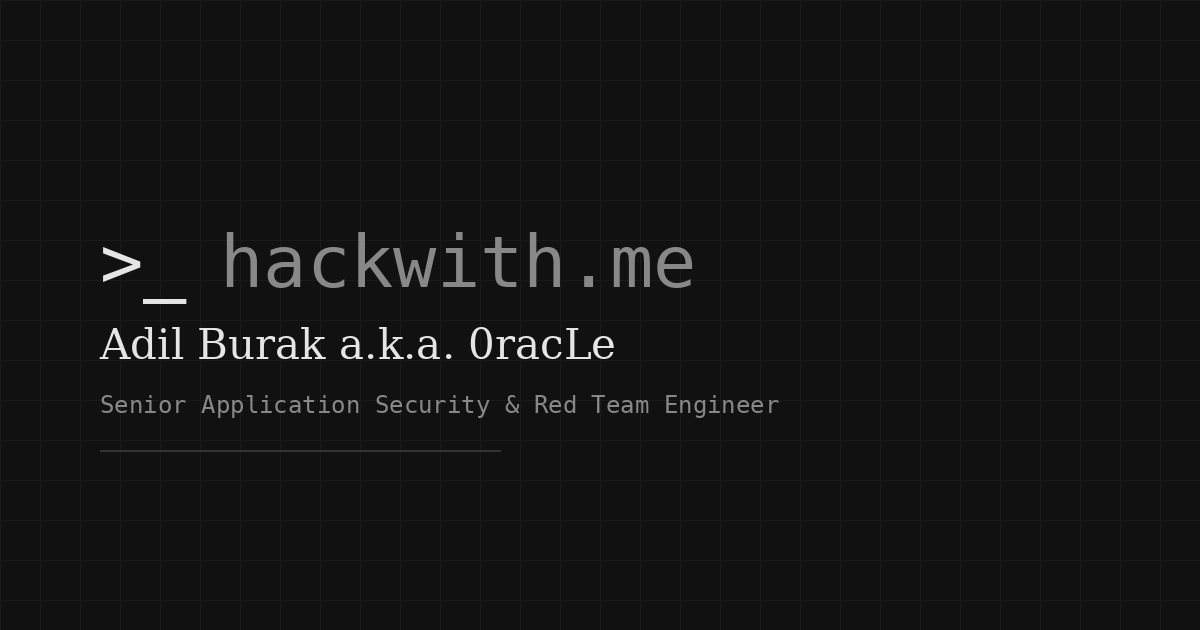
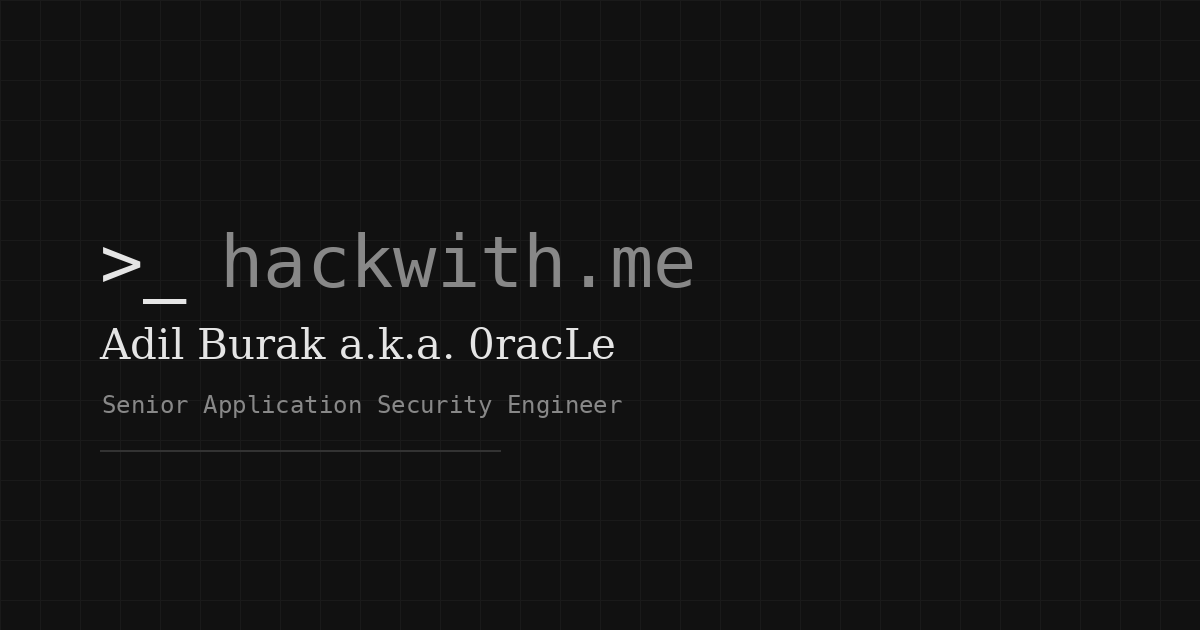
content: align site with current CV and LinkedIn (#12)
* content: align site with current CV and LinkedIn

* content: update page title and meta (index.html)

* content: update og-image subtitle

Changed region(s): [[0.0925, 0.6333, 0.6475, 0.6635]]

diff --git a/src/constants.ts b/src/constants.ts
@@ -14,13 +14,13 @@ export interface Certification {
 }
 
 export const AUTHOR_PROFILE = {
-  role: 'Senior Application Security & Red Team Engineer',
+  role: 'Senior Application Security Engineer',
   location: 'Istanbul, Turkey · Open to Europe / UK / Remote',
   availability: {
     statement: 'Open to Europe / UK / Remote',
     location: 'Istanbul, Turkey',
   },
-  bio: 'OSCP+ certified Application Security & Red Team Engineer with 8+ years across banking, telecom, aviation, insurance, and e-commerce. Bugcrowd Top 100 (2018) with 400+ reports submitted, 150+ validated. Published CVE (CVE-2026-31974). Hands-on across penetration testing, API security, threat modeling, secure SDLC, DevSecOps automation, and AI/LLM security.',
+  bio: 'Application security engineer with 10+ years in offensive and application security across banking, telecom, aviation, insurance and e-commerce. Web, API and mobile security testing, threat modeling and CI/CD security. Bugcrowd Top 100 (2018), 150+ validated vulnerabilities, credited for CVE-2026-31974 (OpenProject). OSCP+, eWPTx, eMAPT, CASP.',
   socials: {
     linkedin: 'https://www.linkedin.com/in/adilburaksen/',
     github: 'https://github.com/adilburaksen',
@@ -29,63 +29,77 @@ export const AUTHOR_PROFILE = {
   },
   experience: [
     {
+      company: 'Self-employed',
+      role: 'Independent Security Researcher (Bug Bounty)',
+      period: '2018 – Present',
+      highlight:
+        'Bugcrowd Top 100 (2018). 400+ reports and 150+ validated vulnerabilities on Bugcrowd, Synack Red Team, YesWeHack, Intigriti and Immunefi. Credited for CVE-2026-31974 (OpenProject). Broken Function Level Authorization at Indeed reclassified from Informational to P1 after re-triage ($10,000 bounty).',
+    },
+    {
       company: 'Abu Dhabi Commercial Bank (ADCB)',
-      role: 'Senior AppSec / Red Team Engineer',
+      role: 'Senior Application Security / Red Team Engineer (Contract)',
       period: '2025 – 2026',
       highlight:
-        'Led STRIDE threat modeling across 14-microservice architecture; produced 52-finding risk register fed into engineering backlogs. Performed CI/CD pipeline assessments and mobile MASVS assessments (140 test cases, 25 findings).',
+        'Led STRIDE threat modeling for a 14-microservice CIAM platform; 52-finding risk register (7 Critical, 16 High) with a remediation roadmap. Reviewed CI/CD pipeline security for a mobile banking backend. Tested the Android banking app against 140 MASVS test cases (25 findings, 6 Critical).',
     },
     {
       company: 'Kafein Technology Solutions',
-      role: 'AppSec Senior Consultant',
+      role: 'Application Security Senior Consultant',
       period: '2024 – 2025',
       highlight:
-        'Security assessments and code reviews across Python/Go/Java/TypeScript stacks. Deployed and tuned SAST/SCA/DAST for 10+ client teams. Trained 100+ developers on OWASP API Top 10.',
+        'Security assessments and secure code reviews for Python, Go, Java and TypeScript products. Set up SAST, SCA, DAST and secrets scanning for 10+ client teams. Triaged bug bounty and VDP reports. Trained 100+ developers on the OWASP API Security Top 10.',
     },
     {
-      company: 'Future Technology Systems (Kuwait)',
-      role: 'Penetration Tester',
+      company: 'Future Technology Systems Co. (FutureTEC), Kuwait',
+      role: 'Penetration Tester & Application Security Senior Engineer',
       period: '2023 – 2024',
       highlight:
-        '15+ full-stack pentests for enterprise and financial sector clients; 200+ critical findings; 90% remediation within SLA. Advised three banks on zero-trust network redesign.',
+        '15+ penetration tests covering web, API, internal infrastructure and network. 200+ findings including SQL injection, authentication and access control issues; 90% fixed within SLA. Advised three banks on zero-trust network redesign.',
     },
     {
       company: 'Barikat Cybersecurity',
-      role: 'Red Team Senior Specialist',
+      role: 'Penetration Tester & Red Team Senior Specialist',
       period: '2022 – 2023',
       highlight:
-        'Web, mobile, API, network, and physical assessments for aviation sector. AD attack chains mapped to MITRE ATT&CK. Re-tested all findings and certified fixes before systems went live.',
+        'Web, mobile, API, network and physical security assessments for aviation clients. Worked with IT/OT teams on remediation and retested every finding before go-live.',
     },
     {
       company: 'Ana Sigorta',
-      role: 'InfoSec Senior Specialist',
+      role: 'Information Security Senior Specialist',
       period: '2021 – 2022',
       highlight:
-        'Oversaw risk analysis, control rollout, and PCI-DSS audit; 100% pass on first attempt. Negotiated vendor contracts saving $15K.',
+        'Red team and vulnerability assessments across web, network and cloud. Owned risk analysis, control rollout and the PCI-DSS audit; passed on the first attempt.',
     },
     {
       company: 'Intertech',
       role: 'Application Security Engineer',
       period: '2020 – 2021',
       highlight:
-        'Built security gates into 700+ Jenkins pipelines (SAST, SCA, DAST, secrets). Led 8-month Security Champion Academy for 500+ developers; 30% fewer OWASP flaws.',
+        'Started in pentesting, then led DevSecOps; added security gates to 700+ Jenkins pipelines. Ran an 8-month security academy for 500+ developers; later scans showed 30% fewer OWASP Top 10 issues.',
+    },
+    {
+      company: 'Various companies incl. PwC Turkey',
+      role: 'Cybersecurity Consultant (part-time)',
+      period: '2016 – 2020',
+      highlight:
+        'Part-time consulting for energy, aviation, defense and technology clients while studying Computer Engineering. PwC Turkey internship: web, network and mobile testing.',
     },
   ] as ExperienceEntry[],
   certifications: [
-    { name: 'OSCP+ / OSCP', detail: '— OffSec' },
+    { name: 'OSCP+ / OSCP', detail: '— OffSec, 2025' },
     { name: 'eWPTx', detail: '— INE, 2026' },
     { name: 'eMAPT', detail: '— INE, 2026' },
-    { name: 'Certified API Security Pro', detail: '(CASP)' },
-    { name: 'Certified DevSecOps Pro', detail: '(CDP)' },
-    { name: 'CEH Master' },
-    { name: 'ISO27001 Lead Auditor' },
+    { name: 'Certified API Security Professional', detail: '(CASP) — Practical DevSecOps, 2026' },
+    { name: 'Certified DevSecOps Professional', detail: '(CDP) — Practical DevSecOps, 2024' },
+    { name: 'CEH Master', detail: '— EC-Council, 2023 (expired 2026)' },
+    { name: 'ISO 27001 Lead Auditor', detail: '— 2022 (expired 2025)' },
   ] as Certification[],
   stack: [
-    'Python / Bash / PowerShell / Go',
-    'Burp Suite Pro / Metasploit / BloodHound',
-    'Fortify / SonarQube / Snyk / Nexus IQ',
+    'Python / Bash / PowerShell / JavaScript / Java',
+    'Burp Suite / Metasploit / BloodHound / Nmap',
+    'Fortify / SonarQube / Coverity / Nexus IQ',
     'Jenkins / GitLab CI / GitHub Actions',
-    'AWS / Azure / GCP / Docker / Kubernetes',
+    'AWS / Azure / Docker / Kubernetes',
   ],
   interests: 'CTF Player (HTB), Shotokan Karate, Analog Photography, Strategy Gaming (EU4, Dota 2).',
 };
@@ -97,11 +111,11 @@ export const EVIDENCE_METRICS: EvidenceMetric[] = [
     label: 'Credential',
     value: 'OSCP+',
     valueDetail: '— OffSec',
-    detail: 'eWPTx — INE · eMAPT — INE · CEH Master',
+    detail: 'eWPTx — INE · eMAPT — INE · CASP',
   },
   {
     label: 'Experience',
-    value: '8+ years',
+    value: '10+ years',
     detail: 'banking · telecom · aviation · insurance · e-commerce',
   },
   {
@@ -139,10 +153,10 @@ export const PUBLISHED_CVES: PublishedCVE[] = [
     cve: 'CVE-2026-31974',
     title: 'SSRF in OpenProject',
     vendor: 'OpenProject',
-    severity: 'Medium',
+    severity: 'Low',
     year: '2026',
     description:
-      'Server-Side Request Forgery in OpenProject. Coordinated disclosure with the OpenProject security team; fix merged upstream in v17.2.0.',
+      'Blind SSRF through webhooks and the SMTP test endpoint. Reported independently through the YesWeHack OpenProject program and credited in the advisory. Fixed in v17.2.0.',
     link: 'https://github.com/opf/openproject/security/advisories/GHSA-9wr7-j98g-2jh3',
     role: 'Reporter',
   },

diff --git a/index.html b/index.html
@@ -7,20 +7,20 @@
     <!-- Analytics is loaded only after explicit consent (see ConsentBanner) -->
     <link rel="icon" type="image/svg+xml" href="/favicon.svg">
     <meta name="viewport" content="width=device-width, initial-scale=1.0" />
-    <title>Adil Burak (0racLe) — Application Security & Red Team Engineer</title>
-    <meta name="description" content="Adil Burak (0racLe) — OSCP+ Application Security & Red Team Engineer. Penetration testing, API security, secure SDLC, DevSecOps. Published CVE, Bugcrowd Top 100, and public disclosures." />
+    <title>Adil Burak (0racLe) — Application Security Engineer</title>
+    <meta name="description" content="Adil Burak (0racLe) — OSCP+ Application Security Engineer. Penetration testing, API security, secure SDLC, DevSecOps. Published CVE, Bugcrowd Top 100, and public disclosures." />
     <link rel="canonical" href="https://hackwith.me/" />
     <meta property="og:type" content="website" />
     <meta property="og:url" content="https://hackwith.me/" />
     <meta property="og:site_name" content="hackwith.me" />
-    <meta property="og:title" content="Adil Burak (0racLe) — Application Security & Red Team Engineer" />
-    <meta property="og:description" content="OSCP+ AppSec & Red Team Engineer. Penetration testing, API security, secure SDLC, DevSecOps. Published CVE, Bugcrowd Top 100, public disclosures." />
+    <meta property="og:title" content="Adil Burak (0racLe) — Application Security Engineer" />
+    <meta property="og:description" content="OSCP+ Application Security Engineer. Penetration testing, API security, secure SDLC, DevSecOps. Published CVE, Bugcrowd Top 100, public disclosures." />
     <meta property="og:image" content="https://hackwith.me/og-image.png">
     <meta property="og:image:width" content="1200">
     <meta property="og:image:height" content="630">
     <meta name="twitter:card" content="summary_large_image">
-    <meta name="twitter:title" content="Adil Burak (0racLe) — Application Security & Red Team Engineer" />
-    <meta name="twitter:description" content="OSCP+ AppSec & Red Team Engineer. Pentesting, API security, secure SDLC, DevSecOps. Published CVE, Bugcrowd Top 100, public disclosures." />
+    <meta name="twitter:title" content="Adil Burak (0racLe) — Application Security Engineer" />
+    <meta name="twitter:description" content="OSCP+ Application Security Engineer. Pentesting, API security, secure SDLC, DevSecOps. Published CVE, Bugcrowd Top 100, public disclosures." />
     <meta name="twitter:image" content="https://hackwith.me/og-image.png">
     <link rel="preconnect" href="https://fonts.googleapis.com">
     <link rel="preconnect" href="https://fonts.gstatic.com" crossorigin>

diff --git a/src/seo.ts b/src/seo.ts
@@ -15,14 +15,14 @@ const NAME_SUFFIX = 'Adil Burak (0racLe)';
 
 const DEFS: Record<string, { title: string; description: string; index?: boolean }> = {
   '/': {
-    title: `${NAME_SUFFIX} — Application Security & Red Team Engineer`,
+    title: `${NAME_SUFFIX} — Application Security Engineer`,
     description:
-      'Adil Burak (0racLe) — OSCP+ Application Security & Red Team Engineer. Penetration testing, API security, secure SDLC, DevSecOps. Published CVE, Bugcrowd Top 100, and public disclosures.',
+      'Adil Burak (0racLe) — OSCP+ Application Security Engineer. Penetration testing, API security, secure SDLC, DevSecOps. Published CVE, Bugcrowd Top 100, and public disclosures.',
   },
   '/about/': {
     title: `About — ${NAME_SUFFIX}`,
     description:
-      'Senior Application Security & Red Team Engineer with 8+ years across banking, telecom, aviation, insurance, and e-commerce. Trajectory, certifications, and toolset.',
+      'Senior Application Security Engineer with 10+ years across banking, telecom, aviation, insurance, and e-commerce. Trajectory, certifications, and toolset.',
   },
   '/writing/': {
     title: `Writing — ${NAME_SUFFIX}`,
